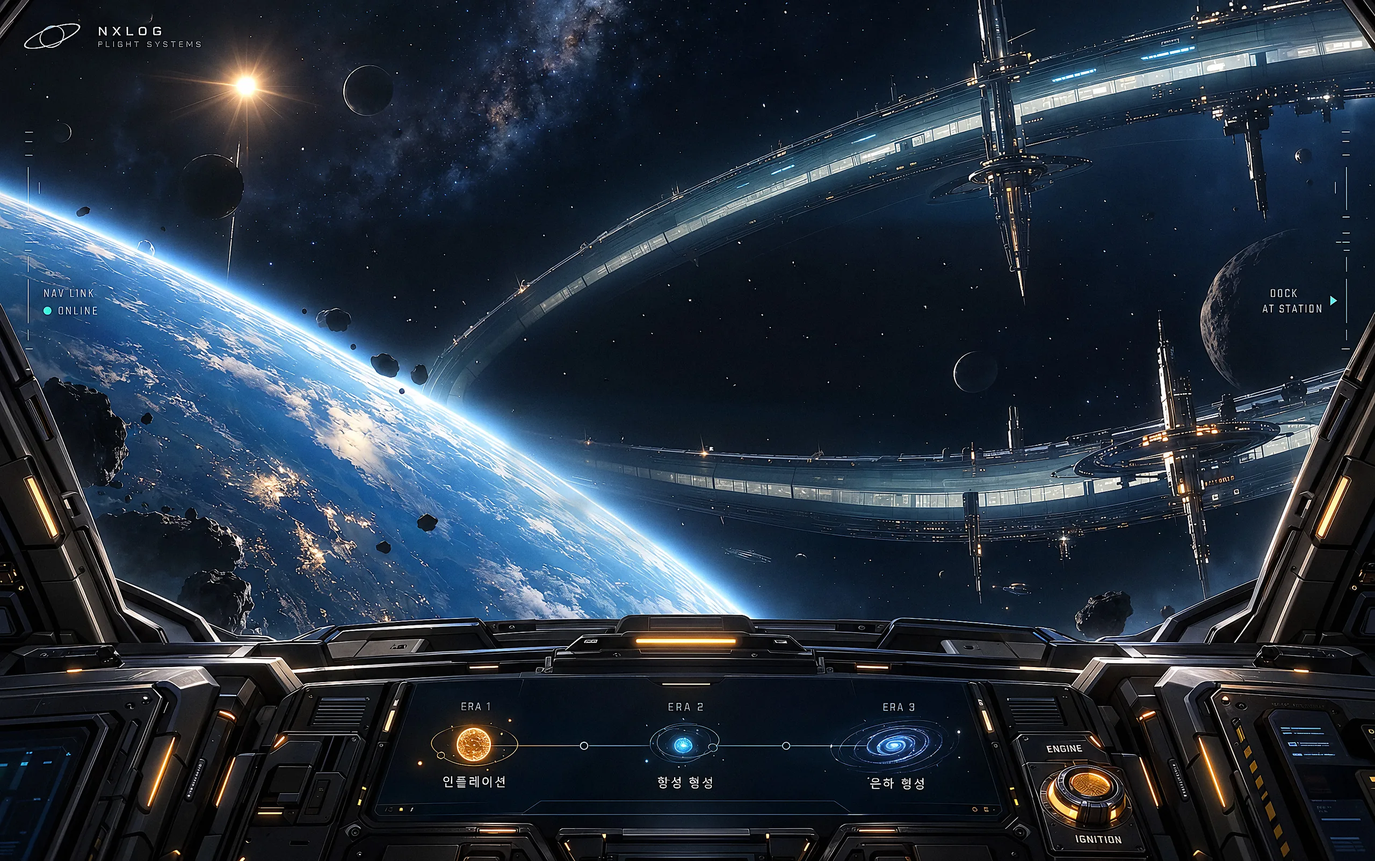
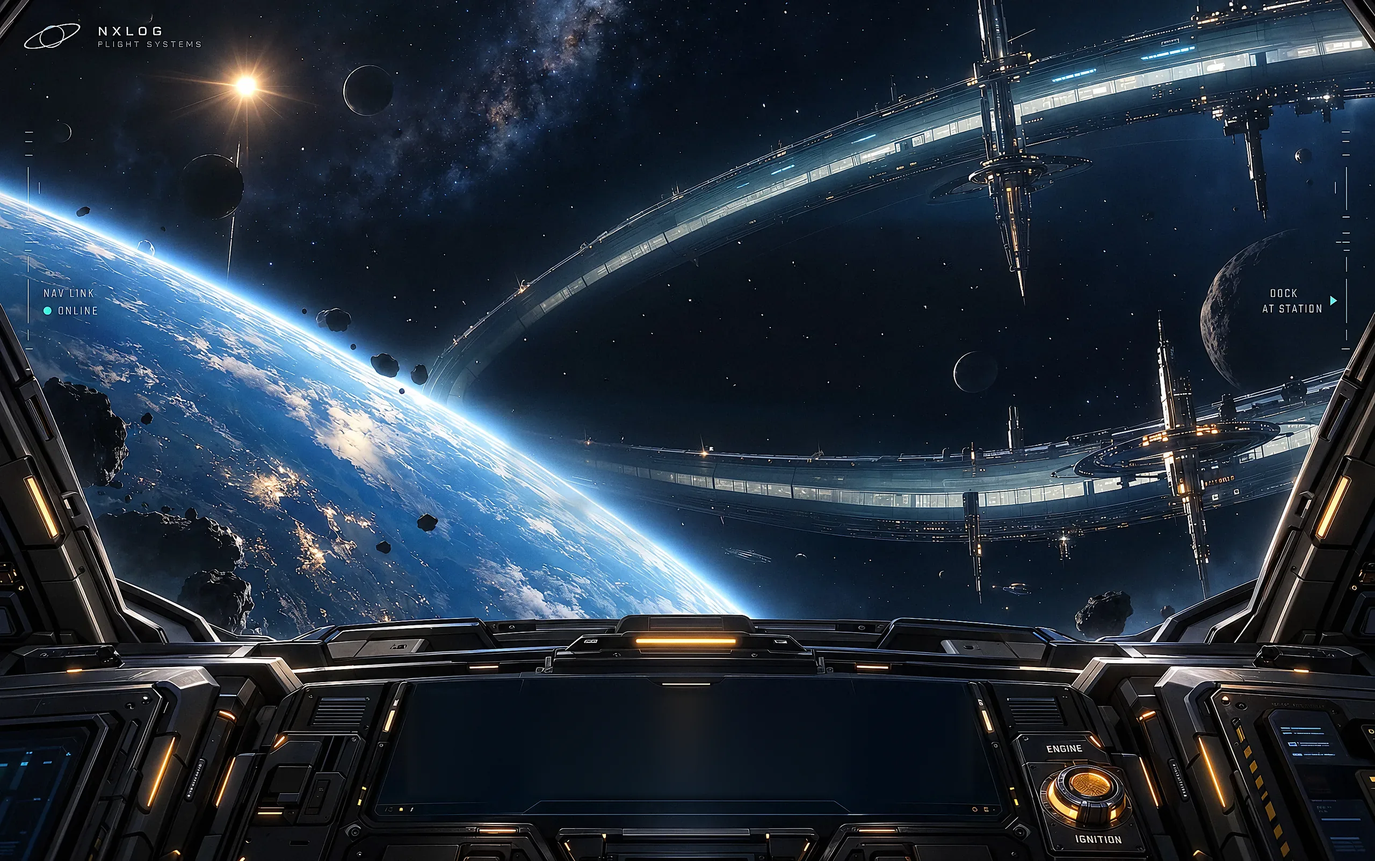
Clear the ERA timeline from the title console panel
The baked-in ERA 1-3 icons and labels are painted out (interpolated
panel fill), leaving an empty screen for future text.

Changed region(s): [[0.4688, 0.811, 0.5312, 0.9357], [0.3125, 0.811, 0.375, 0.9357], [0.5938, 0.811, 0.6875, 0.9046]]

diff --git a/index.html b/index.html
@@ -238,7 +238,7 @@
   #titleScr { position: fixed; inset: 0; z-index: 25; overflow: hidden; background: #02040a; cursor: pointer;
     font-family: "Noto Sans KR", sans-serif; user-select: none; }
   #titleScr.hidden { display: none; }
-  .t-bg { position: absolute; inset: 0; background: url(assets/title-bg.webp?v=1) center 42% / cover;
+  .t-bg { position: absolute; inset: 0; background: url(assets/title-bg.webp?v=2) center 42% / cover;
     animation: tDrift 40s ease-in-out infinite alternate; transform-origin: 50% 40%; }
   @keyframes tDrift { from { transform: scale(1.02); } to { transform: scale(1.08) translate(-.6%, .4%); } }
   .t-bg::after { content: ""; position: absolute; inset: 0;
